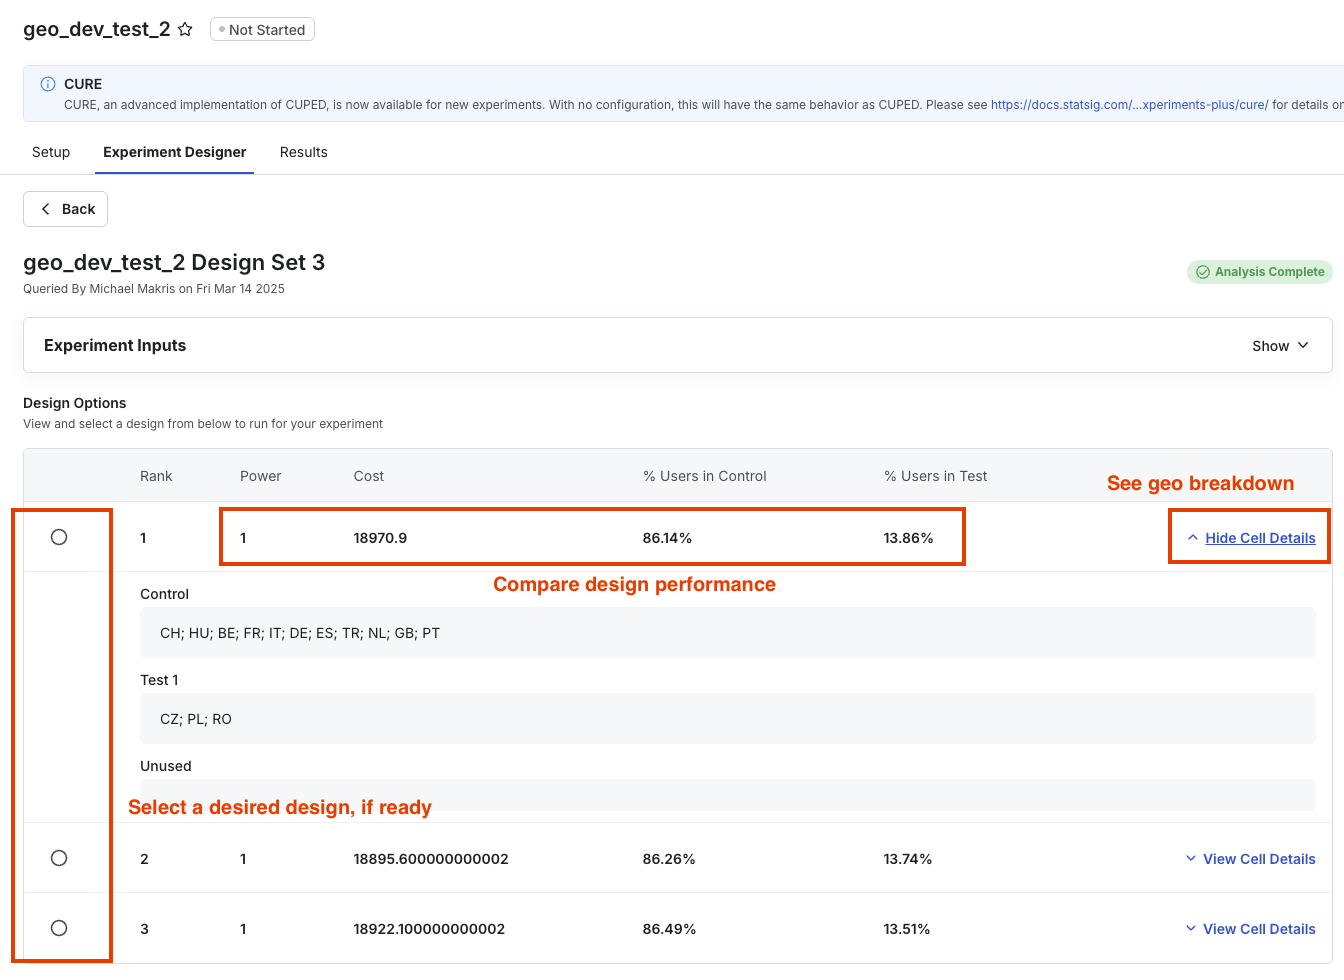
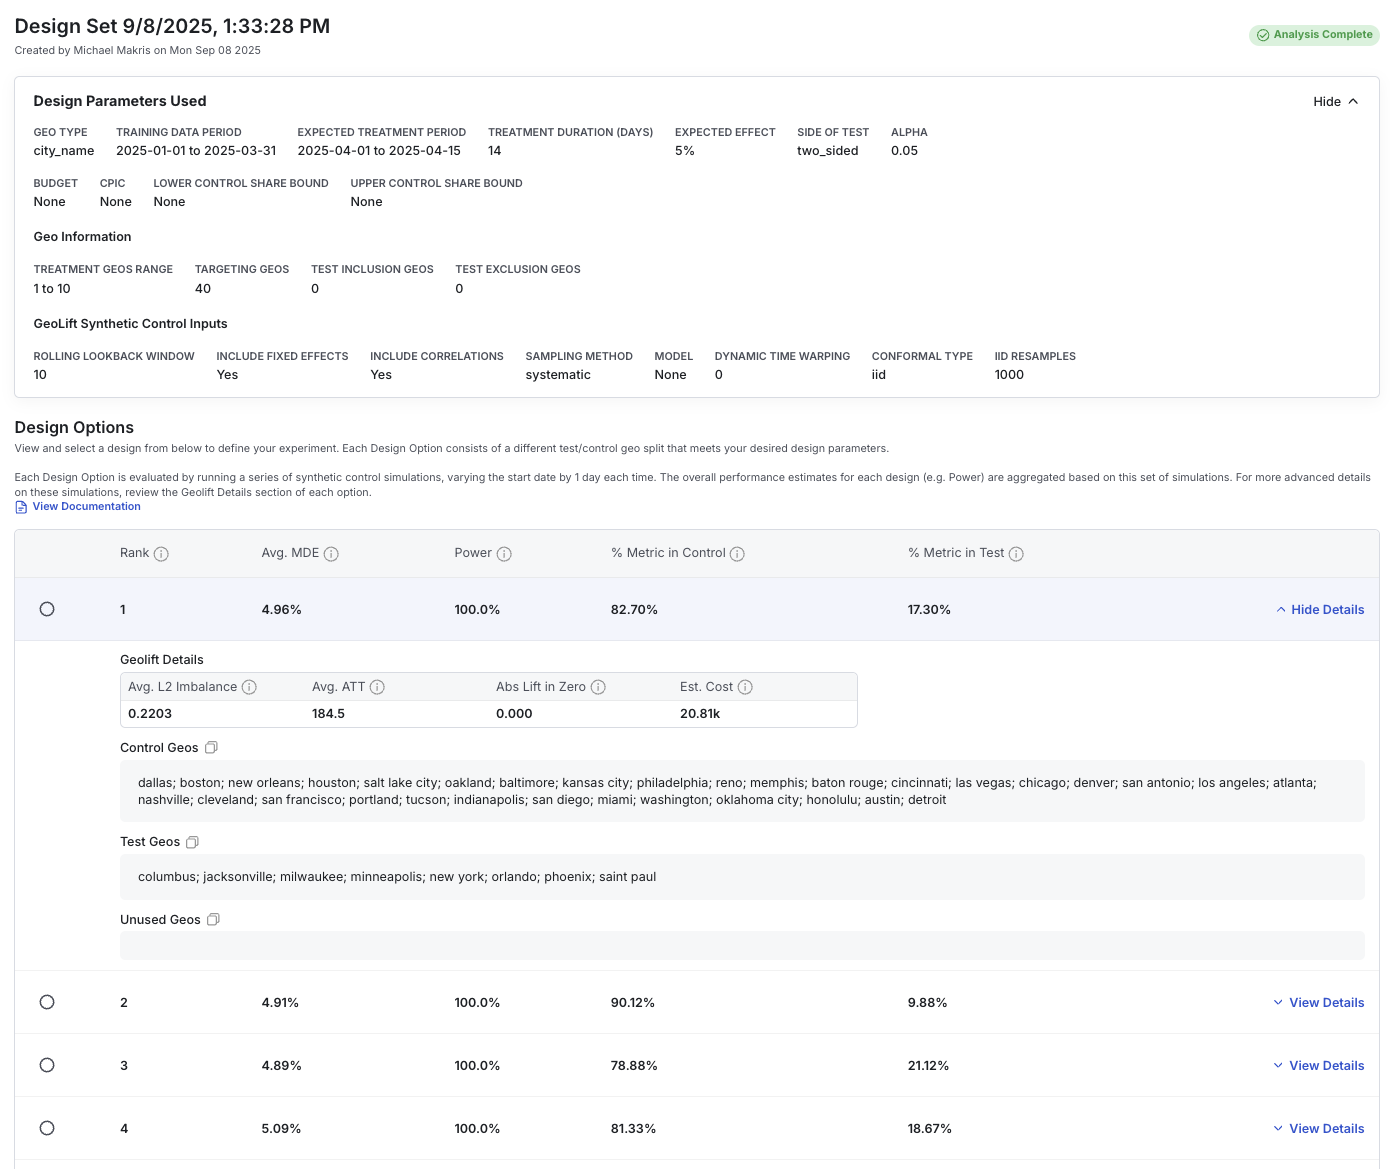
geotest docs

diff --git a/docs/statsig-warehouse-native/geotests/geotests-setup.md b/docs/statsig-warehouse-native/geotests/geotests-setup.md
@@ -39,56 +39,91 @@ Assuming you've already added a [metric source](/statsig-warehouse-native/config
 ![Experiment creation modal with analyze option](/img/geotests/CreateXP.png)
 
 - Enter a name and description for your experiment.
-- Choose Geotest as the experiment type from the dropdown. Note: You do not need to specify an experiment source.
+- Choose Geotest as the experiment type from the dropdown. Fill in the remaining info as you usually would
 
-![Geotest experiment type selection dropdown](/img/geotests/SetType.png)
+<img src="/img/geotests/SetType.png" alt="Geotest experiment type selection dropdown" width="500px" />
+
+:::note
+If you are unable to create a Geotest at this step, it might be because your organization requires experiments to use a Template. If so, you need to contact your project admin and ask for a Geotest Template or bypass the policy.
+:::
 
 In the Setup tab:
 
-- Define your hypothesis (optional).
-- Set the Geo Type (e.g., country_id).
+- Define your hypothesis.
+- Set the Geo Type (e.g., country_id) from one of the types you've defined in your project and metric sources
 - Choose your Primary Metrics.
+
+:::important Metric Types
+GeoTest metrics are currently limited to SUM, COUNT, and COUNT_DISTINCT types. This limitation is driven by the inference techniques involved in synthetic control methodologies.
+:::
 
 ![Geotest experiment setup configuration screen](/img/geotests/SetupXP.png)
 
-:::note
-Metric types in a Geotest experiment are limited to SUM, COUNT, and COUNT_DISTINCT due to the assumptions made in running inference. We'll be adding more metric types in the future. Feel free to reach out to Statsig with suggestions.
-:::
-
 Configure:
 
-- Treatment Start/End Dates
+- Expected Treatment Start/End Dates
 - Desired Effect Size % (this is the MDE you're hoping to measure; smaller MDEs will make finding a valid design harder)
-- Type of Test: 1-sided or 2-sided (click on your metric's name to see these options)
-- Alpha level (desired type I error rate, inverse of Confidence)
-- Optionally enable Budgeting or Holdouts
+- Type of Test: 1-sided or 2-sided
+- Alpha level (desired type I error rate, inverse of Significance)
+- Optionally enable Budgeting
+- Additional advanced modeling parameters for users familiar with [Geolift's Advanced API](https://github.com/facebookincubator/GeoLift/blob/main/R/pre_test_power.R)
 
 ![Experiment configuration settings interface](/img/geotests/XPConfigs.png)
+
+## Generate Design Options
 
 When you're happy with your initial settings, click "Use Experiment Designer" to begin to design process.
 
 ![Experiment designer launch button](/img/geotests/StartDesigner.png)
 
-Here you can control:
+The Experiment Designer automates the process of evaluating potential splits of geos. Creating a new design set involves 3 steps:
 
-- Allowed Geo IDS: Apply a global filter for any geos allowed for control or treatment. Leave blank to use all geos found in your data source.
-- (Test) Inclusion List: Force some geos to be in your treatment cell. Leave blank to allow GeoLift to search for the most optimal set of geos without limits.
-- (Test) Exclusion List: Block some geos from being in your control cell. Leave blank to allow GeoLift to search for the most optimal set of geos without limits.
+1. **Define your targeting**
+2. **Set any Inclusion or Exclusion overrides**
+3. **Define your date range**
 
-![Geographic limitations configuration interface](/img/geotests/LimitGeos.png)
+![Geographic limitations configuration interface](/img/geotests/CreateDesign.png)
 
-When ready, click "Run Analysis" to generate a new Design Option Set based on your desired rules.
+### Define Targeting
+
+Targeting allows you to define the set of geos potentially eligible to be included in your experiment. By default it pulls the unique set of geo types from your metric source from the last 90 days. You can add additional custom filters that help you filter your geos down, based on columns in your metric source. For example, you can filter geos to those in a certain region or by transactions that occurred in a certain language.
+
+![Image](/img/geotests/targeting.png)
+
+You can also manually specify a set of geos yourself. The geo id types must match those in your metric source exactly.
+
+### Set Inclusion or Exclusion Overrides
+
+After defining your targeting set, you can manually overwrite any of these geos into treatment or control groups as desired.
+
+![Image](/img/geotests/targetingoverwrites.png)
+
+For example, when testing if a new marketing campaign is effective, you might know that you want include the city of Austin because a contract has already been signed. And you might know that you do not want to launch in New York, Los Angeles, or Washington D.C. because of local regulations. You can specify these constraints on the designer and it will ensure that all design options considered will conform to these rules.
+
+### Define Date Range
+
+Lastly, you must define the data range of your design dataset. This date range defines what data gets pulled as historical baseline to train a synthetic control model. In general, a good rule of thump is that you design data duration should be at least 4x the expected duration of your treatment period in order to achieve good fits and maximize sensitivity and power of your experiments.
+
+### Advanced Options
+
+- **Rolling Lookback Windows:** Control how many iterative simulations should be done to evaluate power. For instance, a value equal to 5 would simulate power for the last five possible tests in the date range. Corresponds to `lookback_window` in the GeoLift API.
+
+- **Dynamic Time Warping:** Control how much the synthetic control model depends on auto-correlations in the metric vs. correlations between different geos on the same days. A value of 1 focuses exclusively on the metric while a value of 0 (default) relies on correlations only. Corresponds to `dtw` in the GeoLift API.
+
+- **Control Cell Size Requirements:** Sets limits on the share of primary metric value from geos in any considered control group. If not set, all design options will be analyzed regardless of their size. For example, if designing on a Revenue metric, a control size range of [50%, 90%] would mean that only design options where 50% to 90% of revenue was in the designated control geos. Corresponds to `holdout` in the GeoLift API.
 
 ## Evaluate Design Options
 
-Once a Design Option Set has been created (usually takes a few minutes), it will be shown in your Experiment Designer tab. All design option sets generated are shown here, enabling you to look through prior design iterations as needed.
+Once a Design Option Set has been created (usually takes a few minutes), it will be shown in your Experiment Designs tab. All design option sets generated are shown here, enabling you to look through prior design iterations as needed.
 
 ![Experiment designer options display](/img/geotests/DesignerOptions.png)
 
 Click into a completed design set (e.g. “Design Set 3”).
 
-- Compare Power, Cost, and Control/Test Allocation
-- Click View Cell Details to expand and see geo assignments
+- Review the ranked recommendations for your best design options
+- Compare MDE, Power, Cost and Control/Test Allocation
+- Click View Cell Details to expand and see specific geo assignments
+- See additional model performance details
 - Select your desired design using the radio button, and clicking **Save Design to Experiment**.
 
 ![Design option selection interface](/img/geotests/DesignOption.png)
